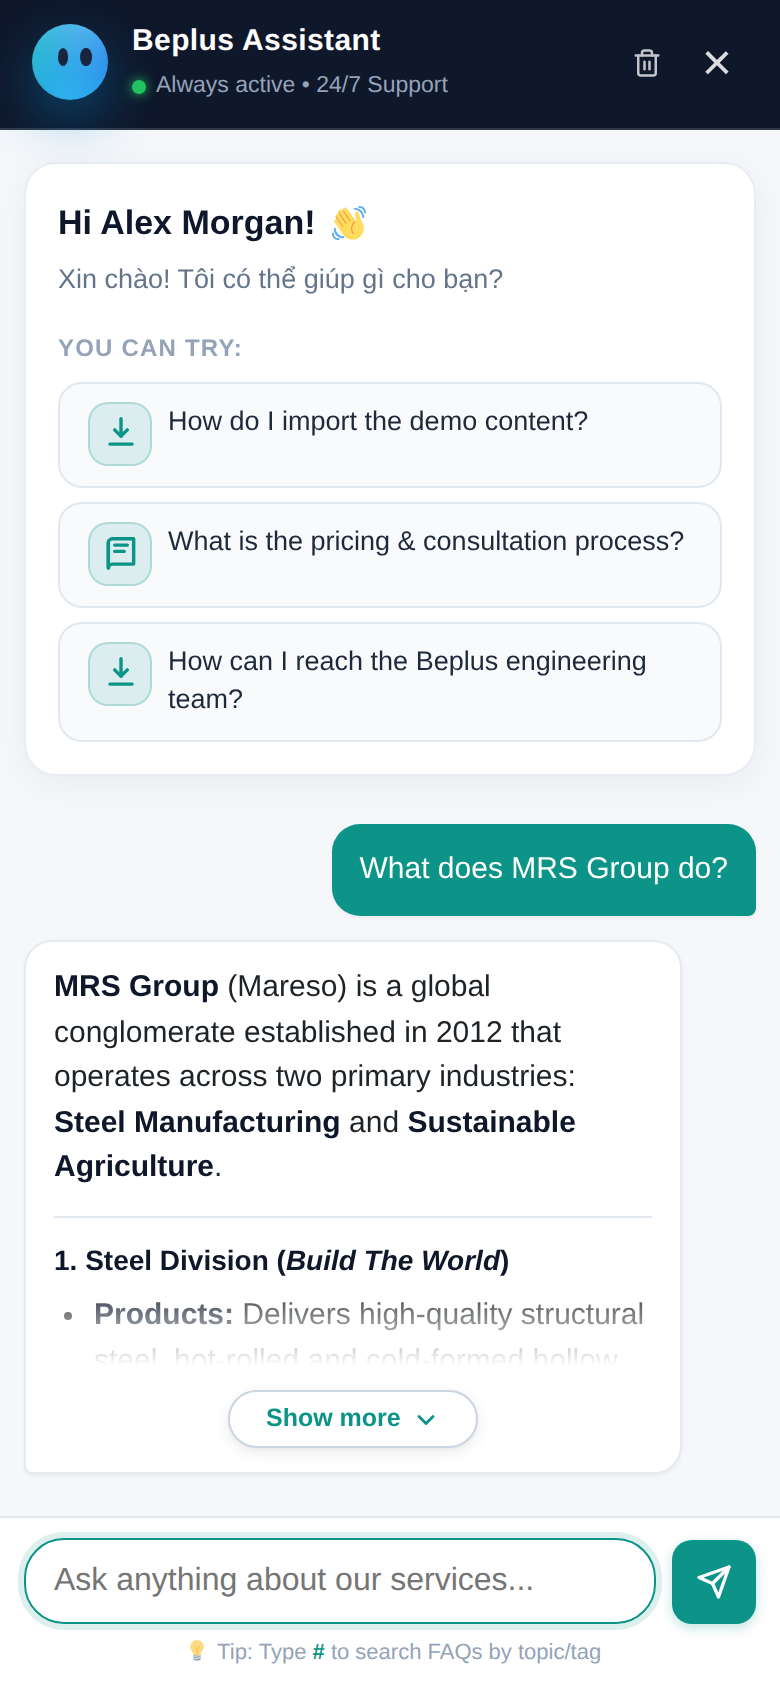
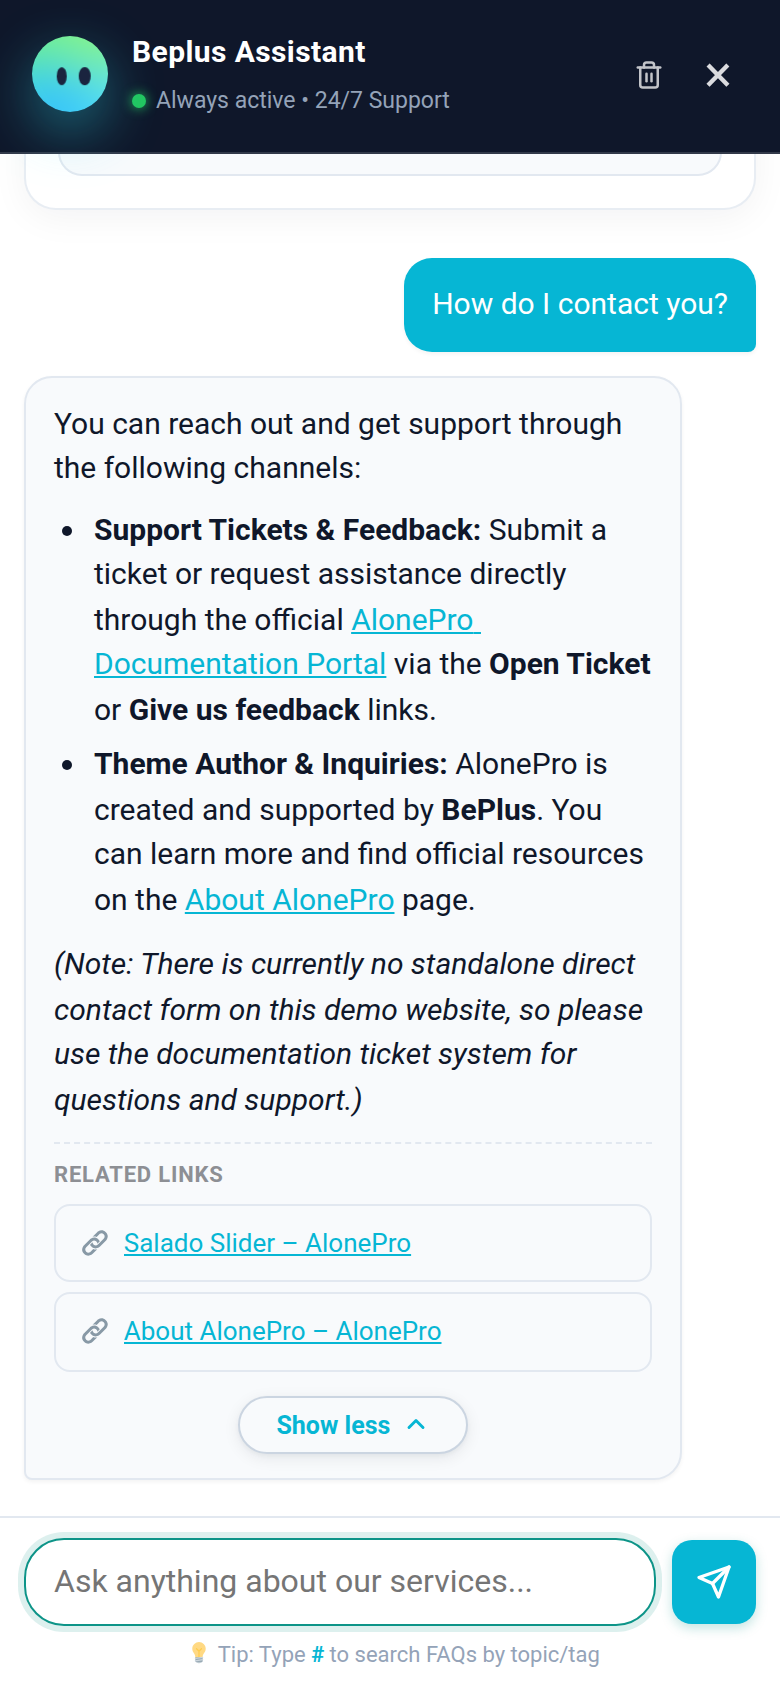
docs: take the visitor-facing screenshots on the live theme demo
The widget, phone and lead-form shots were captured on the bare test install,
which showed a nearly empty page behind the assistant. They now come from
https://alonepro.beplusthemes.com/, a fully designed live site, so the images
show the assistant in the context a visitor actually meets it. The theme demo's
Appearance switcher is hidden before capture because a visitor never sees it.

diff --git a/scripts/capture-frontend.py b/scripts/capture-frontend.py
@@ -1,0 +1,170 @@
+#!/usr/bin/env python3
+"""Capture the visitor-facing screenshots from the live AlonePro demo site.
+
+The widget shots must come from a real, fully-designed website rather than the
+bare test install, so they are taken at https://alonepro.beplusthemes.com/ — a
+live theme demo where the assistant actually runs.
+
+Three images come out of this:
+  10-widget-desktop.png  a real question and a real answer, in context
+  11-widget-mobile.png   the same assistant at phone width
+  12-lead-gate.png       the name + email screen a visitor meets first
+
+Class names verified against the running widget: the launcher is `.bsa-fab`, the
+panel gains `open`, the composer is `textarea.bsa-input`, send is `.bsa-send`,
+the lead form is `.bsa-lead-name` / `.bsa-lead-email` / `.bsa-lead-submit`, and
+messages are `.bsa-msg.bot` / `.bsa-msg.user`.
+
+The launcher is clicked through JS because an ordinary click can land on the
+hovering teaser bubble instead. The composer needs the native value setter plus
+an `input` event; assigning `.value` alone does not reach the widget's state.
+"""
+import pathlib
+
+from playwright.sync_api import sync_playwright
+
+BASE = "https://alonepro.beplusthemes.com/"
+OUT = pathlib.Path("/root/beplus-site-assistant-doc/public/img")
+CHROME = "/root/.agent-browser/browsers/chrome-153.0.8010.36/chrome"
+
+# A question this site genuinely answers, so the reply shows real content.
+# Checked against the live demo: this one answers directly and its reply is short
+# enough to be read inside the widget's fixed 540px panel, where some others run
+# well past the visible area and would document a half-read answer.
+QUESTION = "How do I contact you?"
+
+
+def shot(page, name):
+    """Screenshot the page.
+
+    The theme demo shows a "Appearance" scheme switcher pinned to the right edge.
+    A real visitor never sees it, and in a screenshot it reads as though the site
+    were still in an editor, so it is hidden first.
+    """
+    page.evaluate(
+        "() => { const s = document.querySelector('.scheme-switcher');"
+        " if (s) s.style.display = 'none'; }"
+    )
+    page.wait_for_timeout(300)
+    path = OUT / name
+    page.screenshot(path=str(path))
+    print(f"  {name:32s} {path.stat().st_size/1024:7.1f} KB")
+
+
+def open_widget(page):
+    page.evaluate("() => { const f = document.querySelector('.bsa-fab'); if (f) f.click(); }")
+    page.wait_for_timeout(2200)
+    return page.evaluate(
+        "() => { const p = document.querySelector('.bsa-panel');"
+        " return !!p && p.classList.contains('open'); }"
+    )
+
+
+def fill_lead(page):
+    res = page.evaluate(
+        """() => {
+          const name = document.querySelector('.bsa-lead-name');
+          const mail = document.querySelector('.bsa-lead-email');
+          if (!name || !mail) return 'thieu o nhap';
+          const set = (el, v) => {
+            Object.getOwnPropertyDescriptor(window.HTMLInputElement.prototype, 'value')
+              .set.call(el, v);
+            el.dispatchEvent(new Event('input', { bubbles: true }));
+            el.dispatchEvent(new Event('change', { bubbles: true }));
+          };
+          set(name, 'Alex Morgan');
+          set(mail, 'alex@example.com');
+          return 'ok';
+        }"""
+    )
+    if res != "ok":
+        print(f"    ! form: {res}")
+        return False
+    page.evaluate("() => { const b = document.querySelector('.bsa-lead-submit'); if (b) b.click(); }")
+    page.wait_for_timeout(2500)
+    return True
+
+
+def ask(page, question):
+    typed = page.evaluate(
+        """(q) => {
+          const box = document.querySelector('.bsa-input');
+          if (!box) return false;
+          Object.getOwnPropertyDescriptor(window.HTMLTextAreaElement.prototype, 'value')
+            .set.call(box, q);
+          box.dispatchEvent(new Event('input', { bubbles: true }));
+          return true;
+        }""",
+        question,
+    )
+    if not typed:
+        print("    ! khong thay o nhap")
+        return False
+    page.wait_for_timeout(700)
+    page.evaluate("() => { const b = document.querySelector('.bsa-send'); if (b) b.click(); }")
+
+    # Wait for the answer to appear and stop growing.
+    last = ""
+    for _ in range(45):
+        page.wait_for_timeout(1000)
+        cur = page.evaluate(
+            "() => { const m = document.querySelector('.bsa-msg.bot');"
+            " return m ? m.textContent.trim() : ''; }"
+        )
+        if cur and cur == last and len(cur) > 60:
+            break
+        last = cur
+    print(f"    tra loi ({len(last)} ky tu): {last[:70]}...")
+
+    # Long answers are collapsed behind "Show more". Expand it so the screenshot
+    # shows the whole reply rather than a fade-out mid-sentence.
+    expanded = page.evaluate(
+        """() => {
+          const b = document.querySelector('.bsa-show-more-btn');
+          if (!b) return 'khong co nut';
+          if (/show more/i.test(b.textContent || '')) { b.click(); return 'da bam'; }
+          return 'da mo san';
+        }"""
+    )
+    print(f"    mo rong: {expanded}")
+    page.wait_for_timeout(1200)
+    return True
+
+
+def main():
+    with sync_playwright() as p:
+        browser = p.chromium.launch(
+            executable_path=CHROME,
+            args=["--no-sandbox", "--disable-gpu", "--disable-dev-shm-usage"],
+        )
+        # No WordPress cookies here: this is a visitor's browser, so no admin bar.
+        ctx = browser.new_context(
+            viewport={"width": 1440, "height": 900},
+            device_scale_factor=2,
+            ignore_https_errors=True,
+        )
+        page = ctx.new_page()
+        page.goto(BASE, wait_until="domcontentloaded")
+        page.wait_for_timeout(5000)
+
+        print("mo widget:")
+        print(f"    mo duoc: {open_widget(page)}")
+
+        # 12 — the first screen a visitor sees.
+        shot(page, "12-lead-gate.png")
+
+        if fill_lead(page):
+            print("    dat cau hoi that...")
+            ask(page, QUESTION)
+            shot(page, "10-widget-desktop.png")
+
+            page.set_viewport_size({"width": 390, "height": 844})
+            page.wait_for_timeout(2000)
+            shot(page, "11-widget-mobile.png")
+
+        browser.close()
+    print("xong")
+
+
+if __name__ == "__main__":
+    main()
